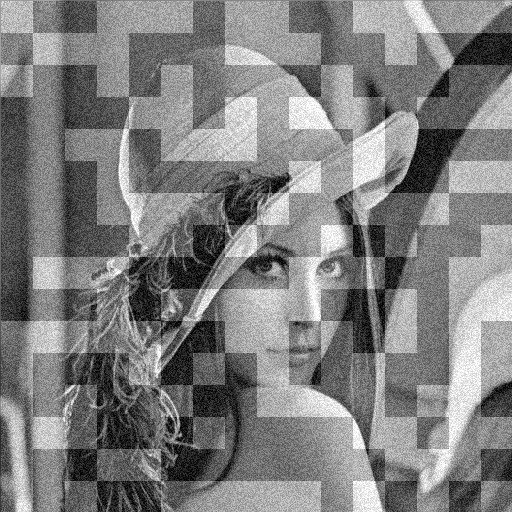
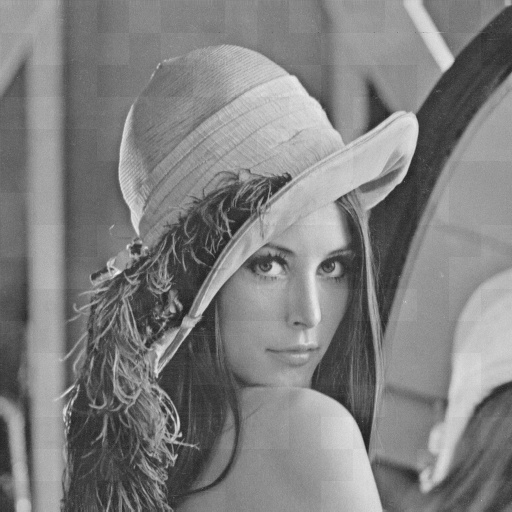
Dodano prymitywną obsługę użytkownika, [na razie zakomentowane]

diff --git a/python/1/WatermarkImage.py b/python/1/WatermarkImage.py
@@ -27,6 +27,7 @@ class WatermarkImage:
         self.watermark_visible = np.zeros((self.width, self.height), np.uint8)  # f.k.a. resized_image_signed
 
         self.noise = np.zeros((self.width, self.height), np.int8)  #f.k.a. noise_signed
+        self.noise_is_set = False
 
         self.noised_watermark = np.zeros((self.width, self.height), np.int8)  #f.k.a. noise_mark
 
@@ -81,13 +82,22 @@ class WatermarkImage:
     def set_noise(self):
         for i in range(self.width):
             for j in range(self.height):
-                self.noise[i][j] = random.randint(1, 60)
+                self.noise[i][j] = random.randint(1, 6)
+        self.noise_is_set = True
 
     def set_noised_watermark(self):
         self.noised_watermark = self.noise * self.watermark
 
-    def set_img_with_message(self):
-        self.img_with_message = self.org + self.noised_watermark
+    def set_img_with_message(self,image_from_file = False):
+        if image_from_file is False:
+            self.img_with_message = self.org + self.noised_watermark
+        else:
+            self.img_with_message = cv2.imread(image_from_file, 0)
+            self.height = self.img_with_message.shape[0]
+            self.width = self.img_with_message.shape[1]
+            self.Mb = self.width / self.K
+            self.Nb = self.height / self.K
+
 
     def write_watermark(self):
         self.set_message_matrix("")
@@ -117,6 +127,8 @@ class WatermarkImage:
 
     def read_watermark(self):
         self.set_dst()
+        if self.noise_is_set is False:
+            self.set_noise()
         self.set_demmod_img()
         self.set_watermark_detected()
         self.check_watermark_detected()

diff --git a/python/1/script.py b/python/1/script.py
@@ -3,11 +3,27 @@
 #sys.path.append('/usr/local/lib/python2.7/site-packages')
 from WatermarkImage import WatermarkImage
 
-img = WatermarkImage('lena.bmp')
+#file_path = raw_input("Please enter file path")
+#users_message = raw_input("Please enter your message")
+
+file_path = 'lena.bmp'
+users_message = 'weglowodany'
+
+img = WatermarkImage(file_path, users_message)
 img.write_watermark()
 #####################################################################
+
+#file_with_message_path = raw_input("Please enter file path")
+
+#img_with_message_path = 'img_with_message.jpeg'
+
+#img_to_decode = WatermarkImage()
+
+#img_to_decode.set_img_with_message(img_with_message_path)
+
+#img_to_decode.read_watermark()
+
 img.read_watermark()
 #####################################################################
 img.write_all_images_to_files()
-
 
